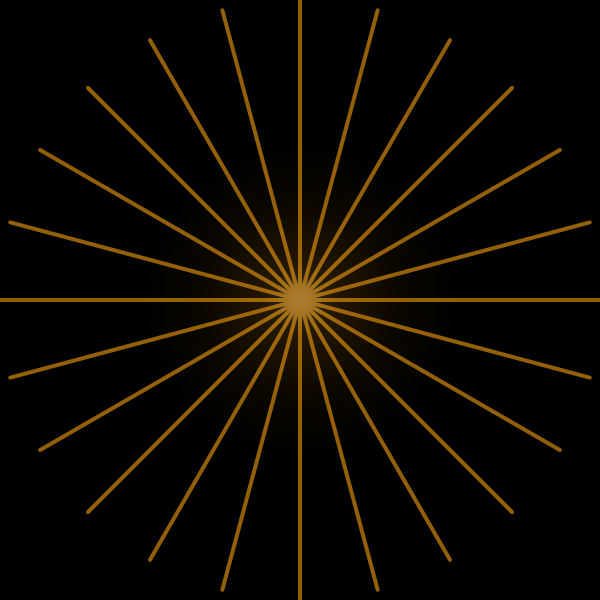
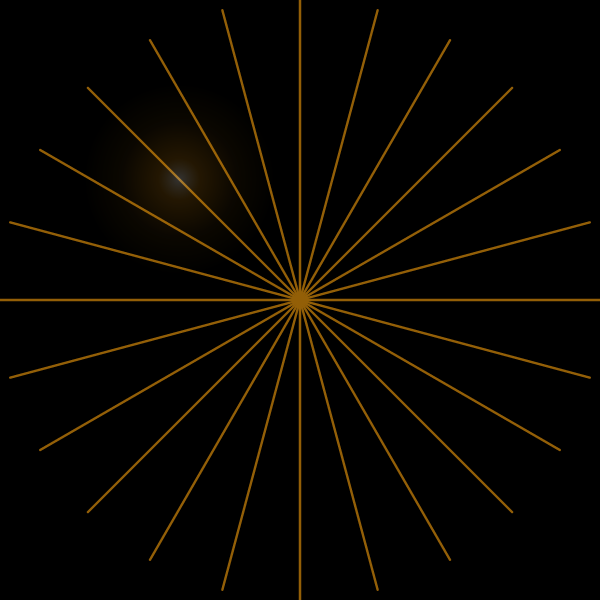
fix(design-system): the frozen card draws the rays the app actually draws (IMP-134)

diff --git a/scripts/gen-design-system.js b/scripts/gen-design-system.js
@@ -103,6 +103,9 @@ const { Resvg } = require('@resvg/resvg-js');
 const theme = require(path.join(SRC, 'theme.js'));
 const data = require(path.join(SRC, 'data.js'));
 const art = require(path.join(SRC, 'art.js'));
+const heroFrame = require(path.join(SRC, 'home', 'heroFrame.js'));
+
+const { HERO_HEIGHT, HERO_FOCAL, heroReach } = heroFrame;
 
 const { makeTheme, DEFAULT_SETTINGS, ThemeContext } = theme;
 const { SHOP_PALETTES } = data;
@@ -397,18 +400,32 @@ const FROZEN = [
   { name: 'NightRays', C: art.NightRays, size: 300, mode: 'night', note: 'Night hero. The same 24-spoke fan on true black + a central amber bloom.' },
 ];
 
+// The generator's own illustrative card width — a round stand-in for a common
+// phone width (390 minus the hero wrapper's 20+20 padding), NOT one of
+// HERO_FRAME's exports: it only sizes the demo box below, and the box centres
+// the disc with `left:50%`, so its exact width never affects the geometry
+// under test. What the app actually computes — HERO_FOCAL and the reach for a
+// 360dp window — comes from heroFrame.js and is never retyped here.
+const FROZEN_FRAME_WIDTH = 350;
+
 function frozenPage() {
   fs.mkdirSync(path.join(OUT, 'frozen'), { recursive: true });
+  const reach = heroReach(360);
+  const canvas = reach * 2;
   const cards = FROZEN.map((f) => {
     const t = f.mode === 'night' ? DEFAULT_NIGHT : DEFAULT_DAY;
     const bg = t.colors.cream;
-    const svg = renderArt(f.C, { size: f.size }, t, f.size);
+    const svg = renderArt(f.C, { size: f.size, focal: HERO_FOCAL, reach }, t, canvas);
     const png = `${f.name}-${f.mode}.png`;
     writePng(path.join(OUT, 'frozen', png), svg, bg);
     return `  <figure style="margin:0;border:1px solid #e4e4e7;border-radius:12px;overflow:hidden;background:#fff">
-    <img src="${png}" alt="${f.name}" style="display:block;width:100%;background:${bg}">
+    <div style="position:relative;width:100%;max-width:${FROZEN_FRAME_WIDTH}px;height:${HERO_HEIGHT}px;
+         overflow:hidden;background:${bg}">
+      <img src="${png}" alt="${f.name}" style="position:absolute;top:${HERO_FOCAL - reach}px;left:50%;
+           width:${canvas}px;height:${canvas}px;margin-left:${-canvas / 2}px">
+    </div>
     <figcaption style="padding:10px 12px;border-top:1px solid #e4e4e7">
-      <code>${f.name}</code> · mode ${f.mode}<br>
+      <code>${f.name}</code> · mode ${f.mode} · focal ${HERO_FOCAL} · reach ${reach}<br>
       <span style="color:#52525b;font-size:13px">${f.note}</span>
     </figcaption>
   </figure>`;
@@ -417,18 +434,23 @@ function frozenPage() {
   return page(
     {
       group: 'Frozen', name: 'The rays',
-      lede: 'The two hero backdrops — one per mode — rendered from the real components in <code>src/art.js</code>, at t=0.',
+      lede: 'The two hero backdrops — one per mode — rendered from the real components in <code>src/art.js</code>, at the app\'s own geometry, at t=0.',
     },
     `<div class="note" style="border-left-color:#dc2626;background:#fef2f2">
-<strong>FROZEN — reference only.</strong> This pair is the app's whole signature: the same 24-spoke fan,
-once for day and once for night. Compose around them. Never redraw, restyle, recolor, or re-time them.
-Designs may position them, size them, and animate their <em>container</em> (opacity, translate, scale)
-— nothing inside.
+<strong>FROZEN — reference only.</strong> The signature is the 24-spoke fan itself: its colour, the 60s
+rotation, and (at night) the amber bloom where the rays converge. Never redraw, restyle, recolor, or
+re-time those. Compose around them.
 </div>
 
-<div class="note">These are not mockups or redraws: each PNG is rasterised from the shipped component with
-the shipped default palette, so what you see is what renders. Both are captured at rotation 0 —
-<code>RayFan</code> and <code>NightRays</code> turn once per 60s in the app.</div>
+<div class="note"><strong><code>focal</code> and <code>reach</code> are ordinary props, not part of the
+signature.</strong> They say where the fan converges and how far it runs, and a design is free to move or
+scale the disc by changing them — that is exactly what IMP-131/132/133 did to fit the hero's own card. The
+box below is drawn at the app's real values (<code>HERO_FOCAL</code>, and the reach for a 360dp window),
+imported from <code>src/home/heroFrame.js</code>, so what you see here is what renders on the phone —
+not the component's own unmoved defaults.</div>
+
+<div class="note">Both are captured at rotation 0 — <code>RayFan</code> and <code>NightRays</code> turn
+once per 60s in the app.</div>
 
 <div class="note"><strong>Nothing else is frozen.</strong> Any other artwork you find in the app is
 ordinary decoration, not brand: a design is free to replace it. If it is not on this card, it is not
@@ -777,9 +799,11 @@ function baselinePages() {
     if (!shots.length) continue;
     const figs = shots.map((f) => {
       const key = f.replace(`${mode}-`, '').replace('.png', '');
+      const captured = fs.statSync(path.join(dir, f)).mtime.toISOString().slice(0, 10);
       return `  <figure style="margin:0">
     <img src="${f}" alt="${key}" style="display:block;width:100%;border:1px solid #e4e4e7;border-radius:10px">
-    <figcaption style="padding:8px 2px;font-size:13px;color:#52525b"><code>${key}</code> — ${SCREEN_TITLES[key] || ''}</figcaption>
+    <figcaption style="padding:8px 2px;font-size:13px;color:#52525b"><code>${key}</code> — ${SCREEN_TITLES[key] || ''}<br>
+    <span style="font-size:11px;color:#a1a1aa">captured ${captured}</span></figcaption>
   </figure>`;
     }).join('\n');
 
@@ -802,6 +826,10 @@ Note what carries the depth here: there are <em>no shadows</em> in night mode. S
       `<div class="note"><strong>Design <em>from</em> these, not from a description.</strong> This is the
 single biggest lever on whether output reads as the next version of Daily Rituals rather than a generic
 wellness app. Match the density, the card rhythm and the amount of breathing room you see here.</div>
+<div class="note"><strong>A stale capture is worse than none.</strong> Each figure above is timestamped
+with its own file's mtime. A capture older than the app it claims to show is to be <strong>deleted, not
+captioned</strong> — 14 baselines survived a month past the builds that changed underneath them, which is
+the exact failure this line exists to stop happening again.</div>
 ${pairNote}
 <div class="note">Captured through <code>npm run shots</code> (Maestro + adb) against the
 <code>storeShots</code> dev scenario — a 210-day streak, "Sam", 2,400 embers — with the status bar in demo

diff --git a/design-system/frozen/rays.html b/design-system/frozen/rays.html
@@ -27,17 +27,22 @@
   .pane h3{margin:0 0 12px;font-size:13px;text-transform:uppercase;letter-spacing:.07em;color:#71717a}
 </style>
 <h1>The rays</h1>
-<p class="lede">The two hero backdrops — one per mode — rendered from the real components in <code>src/art.js</code>, at t=0.</p>
+<p class="lede">The two hero backdrops — one per mode — rendered from the real components in <code>src/art.js</code>, at the app's own geometry, at t=0.</p>
 <div class="note" style="border-left-color:#dc2626;background:#fef2f2">
-<strong>FROZEN — reference only.</strong> This pair is the app's whole signature: the same 24-spoke fan,
-once for day and once for night. Compose around them. Never redraw, restyle, recolor, or re-time them.
-Designs may position them, size them, and animate their <em>container</em> (opacity, translate, scale)
-— nothing inside.
+<strong>FROZEN — reference only.</strong> The signature is the 24-spoke fan itself: its colour, the 60s
+rotation, and (at night) the amber bloom where the rays converge. Never redraw, restyle, recolor, or
+re-time those. Compose around them.
 </div>
 
-<div class="note">These are not mockups or redraws: each PNG is rasterised from the shipped component with
-the shipped default palette, so what you see is what renders. Both are captured at rotation 0 —
-<code>RayFan</code> and <code>NightRays</code> turn once per 60s in the app.</div>
+<div class="note"><strong><code>focal</code> and <code>reach</code> are ordinary props, not part of the
+signature.</strong> They say where the fan converges and how far it runs, and a design is free to move or
+scale the disc by changing them — that is exactly what IMP-131/132/133 did to fit the hero's own card. The
+box below is drawn at the app's real values (<code>HERO_FOCAL</code>, and the reach for a 360dp window),
+imported from <code>src/home/heroFrame.js</code>, so what you see here is what renders on the phone —
+not the component's own unmoved defaults.</div>
+
+<div class="note">Both are captured at rotation 0 — <code>RayFan</code> and <code>NightRays</code> turn
+once per 60s in the app.</div>
 
 <div class="note"><strong>Nothing else is frozen.</strong> Any other artwork you find in the app is
 ordinary decoration, not brand: a design is free to replace it. If it is not on this card, it is not
@@ -45,16 +50,24 @@ the signature.</div>
 
 <div class="grid" style="grid-template-columns:repeat(auto-fill,minmax(280px,1fr));max-width:1180px">
   <figure style="margin:0;border:1px solid #e4e4e7;border-radius:12px;overflow:hidden;background:#fff">
-    <img src="RayFan-day.png" alt="RayFan" style="display:block;width:100%;background:#f9f7f4">
+    <div style="position:relative;width:100%;max-width:350px;height:336px;
+         overflow:hidden;background:#f9f7f4">
+      <img src="RayFan-day.png" alt="RayFan" style="position:absolute;top:-83px;left:50%;
+           width:502px;height:502px;margin-left:-251px">
+    </div>
     <figcaption style="padding:10px 12px;border-top:1px solid #e4e4e7">
-      <code>RayFan</code> · mode day<br>
+      <code>RayFan</code> · mode day · focal 168 · reach 251<br>
       <span style="color:#52525b;font-size:13px">Day hero backdrop. 24 spokes, one full rotation per 60s.</span>
     </figcaption>
   </figure>
   <figure style="margin:0;border:1px solid #e4e4e7;border-radius:12px;overflow:hidden;background:#fff">
-    <img src="NightRays-night.png" alt="NightRays" style="display:block;width:100%;background:#000000">
+    <div style="position:relative;width:100%;max-width:350px;height:336px;
+         overflow:hidden;background:#000000">
+      <img src="NightRays-night.png" alt="NightRays" style="position:absolute;top:-83px;left:50%;
+           width:502px;height:502px;margin-left:-251px">
+    </div>
     <figcaption style="padding:10px 12px;border-top:1px solid #e4e4e7">
-      <code>NightRays</code> · mode night<br>
+      <code>NightRays</code> · mode night · focal 168 · reach 251<br>
       <span style="color:#52525b;font-size:13px">Night hero. The same 24-spoke fan on true black + a central amber bloom.</span>
     </figcaption>
   </figure>

diff --git a/src/screens/HomeScreen.js b/src/screens/HomeScreen.js
@@ -14,6 +14,7 @@ import { pickForDay } from '../time/dailyPick';
 import { HELLOS } from '../content/greetings';
 import { streakSubtitle } from '../home/streakCopy';
 import { heroChrome } from '../home/heroChrome';
+import { HERO_HEIGHT, HERO_FOCAL, heroReach } from '../home/heroFrame';
 import { buildWeekStrip } from '../home/calendar';
 import { MISS_EMOJI, FREEZE_EMOJI } from '../data';
 import { deriveKeepsakes } from '../profile/achievements';
@@ -29,35 +30,11 @@ import AnnualRecapCard from './AnnualRecapCard';
 // for why (a "year in review" outside Dec–Jan is either premature or stale).
 const RECAP_WINDOW_MONTHS = [11, 0]; // Dec, Jan
 
-// The streak hero's video sky (IMP-121 built the shell; IMP-122 wired it to
-// the real sky manifest instead of one hardcoded fixture clip).
-const HERO_HEIGHT = 336;
-
 // Both hero shells are the same box — only the ground behind them differs.
 // The height is pinned to the sky-clip crop (design-queue.md → "The frame"),
 // so the classic card's content does not get to decide it (IMP-130).
 const HERO_BOX = { flex: 1, paddingHorizontal: 22, paddingTop: 26, paddingBottom: 22, alignItems: 'center' };
 
-// The sunburst's focal point. It was 80 from IMP-003 until now, which was the
-// middle of a card that sized itself to its content (~232) -- the 300dp disc
-// bled off the top and landed on the bottom edge. IMP-130 pinned the card to
-// 336 for the sky crop and left the focal where it was, so the disc now hangs
-// 70dp off the top and leaves a 106dp bare band underneath. IMP-131 put the
-// numeral back ON that focal; it never asked whether the focal was still in the
-// right place. It is the card's centre, and both the art and the numeral are
-// derived from it here so they cannot drift apart again.
-const HERO_FOCAL = HERO_HEIGHT / 2;
-
-// How far the rays run. IMP-132 centred the disc and, in doing so, made its own
-// outer boundary visible for the first time: a 300dp circle floating in a 350x336
-// card shows a bare rim on all four sides and reads as empty. The sunburst was
-// never meant to show where it ends -- before IMP-130 it bled off the top edge --
-// so the reach is now derived from the card's own diagonal: far enough that the
-// tips are always outside the card, at any rotation, on any phone width.
-const HERO_PAD = 20;        // the hero wrapper's paddingHorizontal, both sides
-const HERO_REACH_MARGIN = 1.08; // 8% past the corner, so no round cap ever lands on one
-const heroReach = (windowWidth) =>
-  Math.ceil(Math.hypot((windowWidth - HERO_PAD * 2) / 2, HERO_HEIGHT / 2) * HERO_REACH_MARGIN);
 const NUMERAL_LINE = 82;
 // Line heights below the numeral are explicit so the stack's height is known by
 // construction rather than left to three RN defaults (IMP-131's estimates).

diff --git a/src/home/heroFrame.js b/src/home/heroFrame.js
@@ -1,0 +1,30 @@
+// heroFrame.js — the streak hero's own geometry (IMP-134).
+//
+// Pulled out of HomeScreen.js so the design-system generator and a guard test
+// can read the app's real numbers without importing a screen and pulling the
+// whole render tree into node.
+
+// The streak hero's video sky (IMP-121 built the shell; IMP-122 wired it to
+// the real sky manifest instead of one hardcoded fixture clip).
+export const HERO_HEIGHT = 336;
+
+// The sunburst's focal point. It was 80 from IMP-003 until now, which was the
+// middle of a card that sized itself to its content (~232) -- the 300dp disc
+// bled off the top and landed on the bottom edge. IMP-130 pinned the card to
+// 336 for the sky crop and left the focal where it was, so the disc now hangs
+// 70dp off the top and leaves a 106dp bare band underneath. IMP-131 put the
+// numeral back ON that focal; it never asked whether the focal was still in the
+// right place. It is the card's centre, and both the art and the numeral are
+// derived from it here so they cannot drift apart again.
+export const HERO_FOCAL = HERO_HEIGHT / 2;
+
+// How far the rays run. IMP-132 centred the disc and, in doing so, made its own
+// outer boundary visible for the first time: a 300dp circle floating in a 350x336
+// card shows a bare rim on all four sides and reads as empty. The sunburst was
+// never meant to show where it ends -- before IMP-130 it bled off the top edge --
+// so the reach is now derived from the card's own diagonal: far enough that the
+// tips are always outside the card, at any rotation, on any phone width.
+export const HERO_PAD = 20;        // the hero wrapper's paddingHorizontal, both sides
+export const HERO_REACH_MARGIN = 1.08; // 8% past the corner, so no round cap ever lands on one
+export const heroReach = (windowWidth) =>
+  Math.ceil(Math.hypot((windowWidth - HERO_PAD * 2) / 2, HERO_HEIGHT / 2) * HERO_REACH_MARGIN);

diff --git a/__tests__/scripts/genDesignSystem.test.js b/__tests__/scripts/genDesignSystem.test.js
@@ -50,6 +50,35 @@ describe('the Plus card quotes the app, not a memory of it', () => {
   });
 });
 
+describe('the frozen card states the geometry the app renders', () => {
+  // IMP-134: frozenPage() used to call renderArt() with `{ size }` only, so
+  // both PNGs came out at the component defaults (focal 80, reach 150) — the
+  // app stopped passing those at IMP-132. Reading the GENERATED file (not this
+  // generator's source) is the point: if the app's geometry moves again and
+  // nobody reruns `node scripts/gen-design-system.js`, the stale committed
+  // rays.html no longer matches these imported, freshly-computed numbers, and
+  // this test catches it.
+  const { HERO_HEIGHT, HERO_FOCAL, heroReach } = require('../../src/home/heroFrame');
+  const reach = heroReach(360);
+  const rays = fs.readFileSync(path.join(ROOT, 'design-system', 'frozen', 'rays.html'), 'utf8');
+
+  test('both figures are drawn at the app\'s real focal and reach, not the component defaults', () => {
+    const focalCount = (rays.match(new RegExp(`focal ${HERO_FOCAL} `, 'g')) || []).length;
+    const reachCount = (rays.match(new RegExp(`reach ${reach}(?:[^0-9]|$)`, 'g')) || []).length;
+    expect(focalCount).toBe(2);
+    expect(reachCount).toBe(2);
+  });
+
+  test('the demo box is the hero card\'s own height', () => {
+    expect((rays.match(new RegExp(`height:${HERO_HEIGHT}px`, 'g')) || []).length).toBe(2);
+  });
+
+  test('does not describe the rays as a fixed 300dp disc', () => {
+    expect(rays).not.toMatch(/300\s*dp\s*disc/i);
+    expect(rays).not.toMatch(/what you see is what renders/);
+  });
+});
+
 describe('the retired claims stay retired', () => {
   test('does not say PLUS_ENABLED is false', () => {
     expect(gen).not.toMatch(/PLUS_ENABLED<\/code> is <code>false<\/code> and stays false/);
